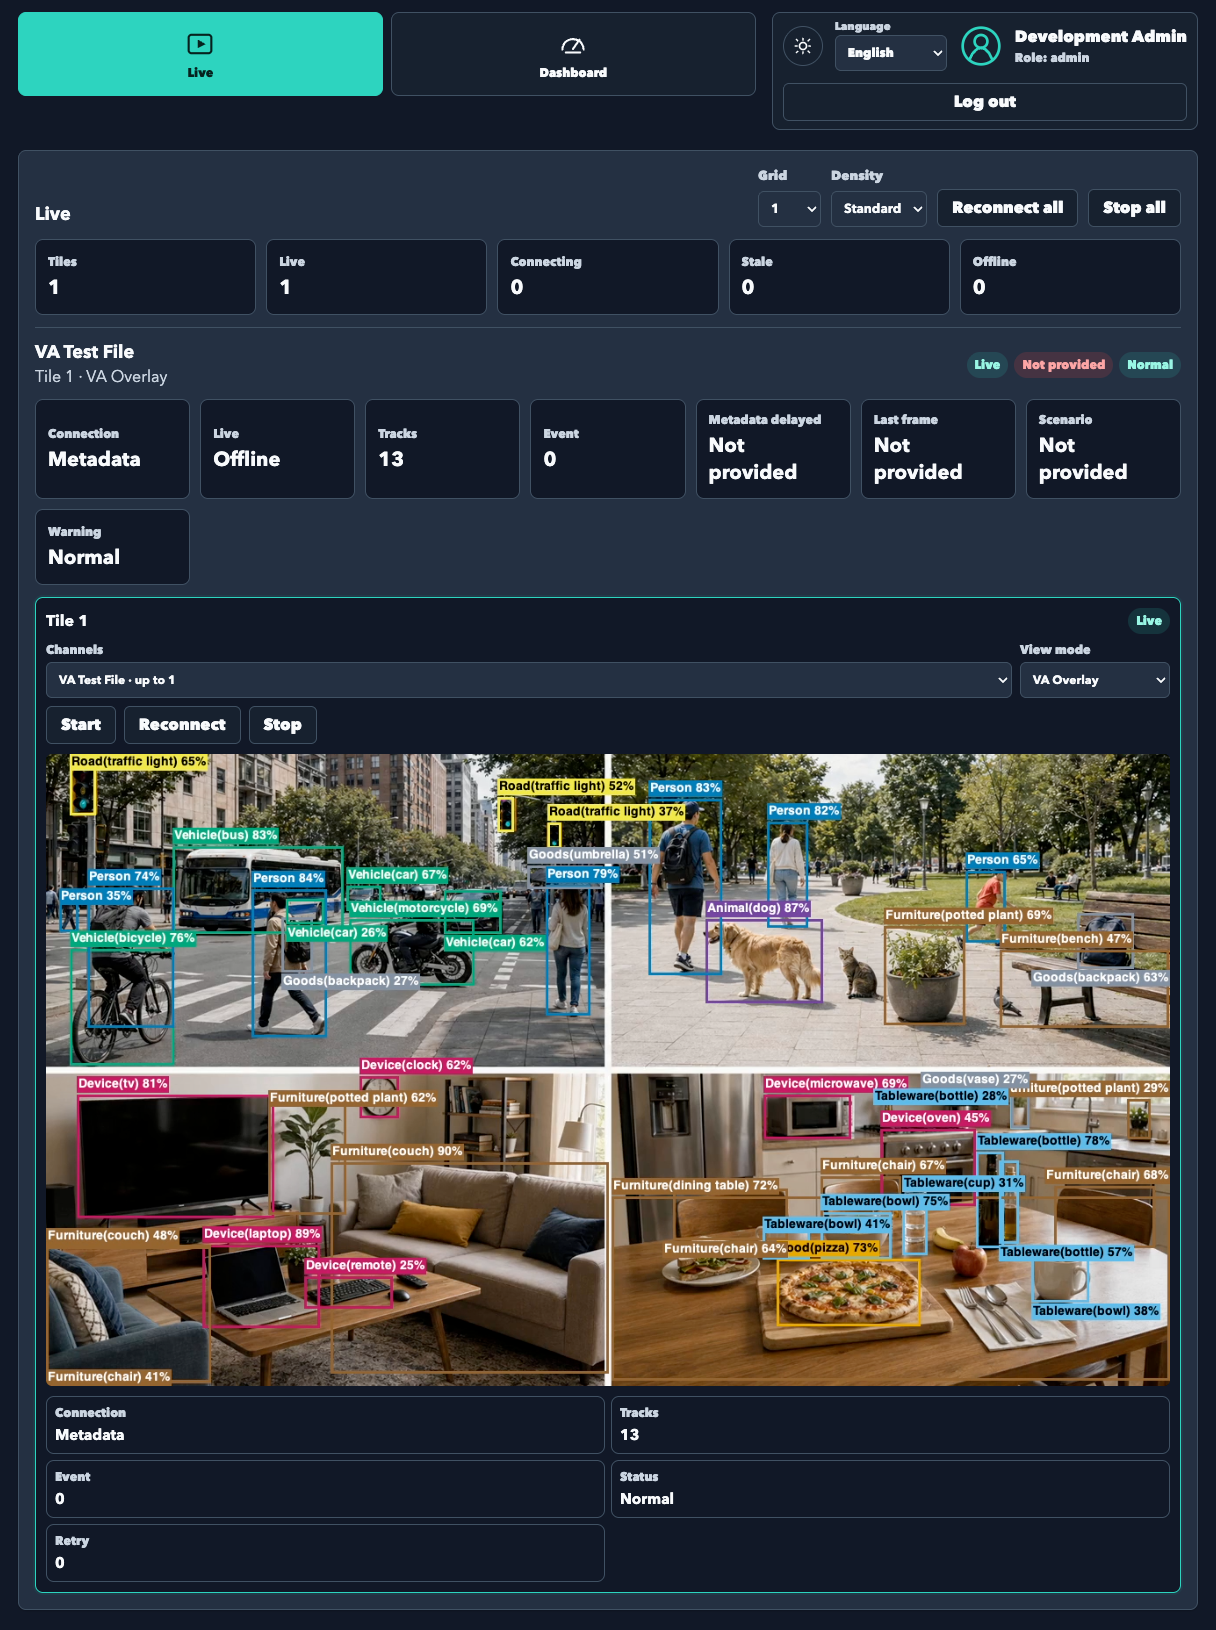
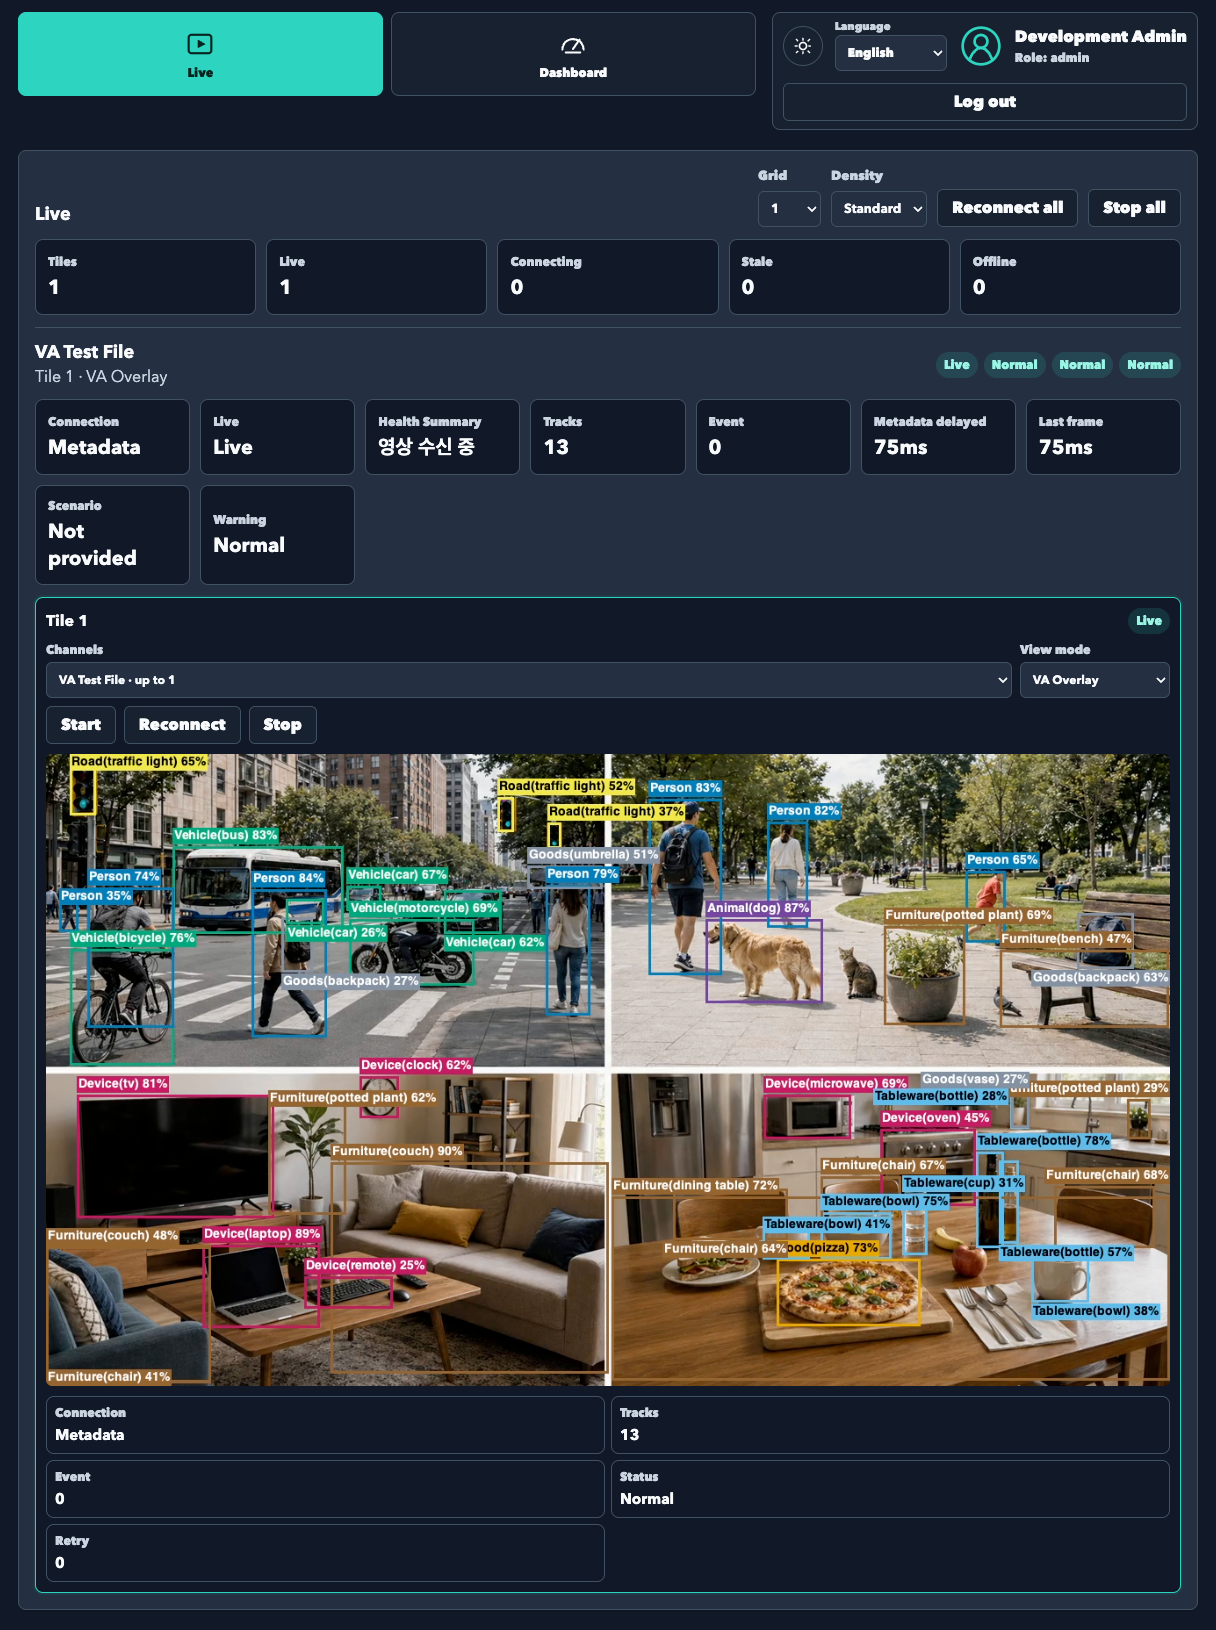
docs: refresh final review state

Changed region(s): [[0.0312, 0.2147, 0.9688, 0.3681]]

diff --git a/docs/en/README.md b/docs/en/README.md
@@ -37,7 +37,11 @@ sprawl; use the table below to jump to the detailed source-of-truth page.
 - v1.1.0 targets live operations: ONVIF-assisted live source onboarding, live source health, and live VA event quality.
 - It does not expand Media Server into long-term recording, VMS/NVR, playback/search, or ONVIF Profile G recording/replay scope.
 - EventRecord, snapshot, and clip hooks remain short event evidence or diagnostics helpers unless a later phase changes the product boundary.
-- The 2026-05-12 close-out completed prerequisite roadmap steps 1-6 and RC stabilization. 30m/120m longrun evidence is a conditional release gate for an actual RC cut, not a remaining v1.1.0 backlog item.
+- The 2026-05-12 close-out completed prerequisite roadmap steps 1-6.
+- The 2026-05-13 final local release gate completed 120m predev soak,
+  120m runtime-console longrun with a 30m cleanup-idle observation, and
+  P1 public/bundle/full-smoke review.
+- Release tag, main merge, GitHub Release, and push remain manual release actions.
 
 ## Current Priority Snapshot
 
@@ -47,17 +51,17 @@ sprawl; use the table below to jump to the detailed source-of-truth page.
 | Runtime distribution policy | Done | Source-first policy and bundle guardrails are in place |
 | Ops UI stability | Done | Channels/Rules/Users responsive table checks exist |
 | v1.1.0 prerequisite roadmap 1-6 | Done | Live-only boundary, ONVIF import, source health, VA quality, delivery contract, and multilingual alignment are closed |
-| v1.1.0 RC stabilization | Done | RC gate/release checklist readiness and longrun separation are closed without rerunning prerequisite roadmap 1-6 |
+| v1.1.0 RC stabilization | Done | Final local longrun/P1 release-gate evidence is closed without rerunning prerequisite roadmap 1-6 |
 | Audit trail operations | Follow-up phase | Server persistence exists; search/export can improve |
 | Short event evidence | Supporting | EventRecord/snapshot/clip cleanup exists, but it is not the main v1.1.0 product direction |
-| RC gate operations | Conditional gate | Longrun gate exists and should be run explicitly for an actual RC cut |
+| RC gate operations | Conditional gate | Repeat longrun only for a new release cut or high-risk media/VA fanout change |
 | Client dashboard field polish | Follow-up phase | Preset-driven priority and wording can improve |
 
 ## General Follow-Ups
 
 - Close or suppress existing Dependabot major-update PR noise after the policy is documented.
 - Add richer English docs only if the public audience grows beyond this consolidated index.
-- Connect RC artifacts to release notes when cutting an actual release candidate.
+- Attach the latest RC artifacts to release notes when cutting the actual tag or GitHub Release.
 - Keep signed-token and cleanup checks for evidence bundles scoped to short event evidence.
 - Add operator-facing next-action buttons to root-cause diagnostics in a later operator workflow phase.
 

diff --git a/docs/v1.1.0-roadmap.md b/docs/v1.1.0-roadmap.md
@@ -392,9 +392,12 @@ git diff --check -- README.md docs
 - 한국어/영어 UI와 문서의 주요 표현 정합성 확인
 - longrun은 live relay/metadata/event 중심으로 실행
 - 120분 soak는 media/VA fanout 고위험 변경이 있을 때만 조건부 gate로 실행
-- 2026-05-12 close-out 기준으로 RC gate/release checklist readiness는 완료.
-  선수 로드맵 1~6은 다시 진행하지 않으며, 실제 30분/120분 실측은
-  release candidate 판정 시 명시적으로 실행하는 운영 gate로 남깁니다.
+- 2026-05-13 최종 로컬 release gate 기준으로 120분 predev soak,
+  120분 runtime console longrun, 30분 cleanup idle 관찰, P1 public/bundle/full
+  smoke 재검토를 완료했습니다.
+- 선수 로드맵 1~6은 다시 진행하지 않습니다. 이후 같은 longrun은 release
+  candidate 재판정이나 고위험 media/VA fanout 변경에서만 반복합니다.
+- release tag, main merge, GitHub Release, push는 이 문서 기준으로 수행하지 않았습니다.
 
 검증 후보:
 
@@ -407,7 +410,7 @@ git diff --check -- README.md docs
 ## 5. Close-out Status
 
 2026-05-12 순차 close-out 기준으로 선수 로드맵은 아래 순서대로 완료했습니다.
-RC 안정화에서 이 선수 로드맵을 다시 진행하지 않습니다.
+2026-05-13에는 선수 로드맵을 다시 열지 않고 RC release gate만 최종 재검토했습니다.
 
 1. Live-only 제품 경계 확정
 2. [ONVIF live source onboarding](./onvif-live-import.md)
@@ -416,10 +419,15 @@ RC 안정화에서 이 선수 로드맵을 다시 진행하지 않습니다.
 5. [Live event delivery contract](./live-event-metadata-contracts.md)
 6. 다국어 UI/문서 정합성 및 영문 mirror 문서 병합
 
-남은 v1.1.0 후속 이슈는 없습니다.
-실제 release candidate cut에서 필요한 30분/120분 장시간 실측은
-`v1.1.0 RC 안정화` 구현 이슈가 아니라 조건부 release gate로 실행합니다.
-녹화와 playback 기능은 RC 잔여 범위에 들어가지 않습니다.
+남은 v1.1.0 구현 후속 이슈는 없습니다.
+최종 로컬 release gate에서는 `verify-predev --soak-minutes 120`이 `525/0/1`,
+`verify-va-runtime-console-longrun --duration-minutes 120 ... --idle-after-cleanup-minutes 30`이
+`12/0/0`으로 통과했습니다. runtime longrun의 idle 판정은 RSS `+0.58MiB`
+warning이었지만 cleanup 관련 runtime counter는 모두 `0`이었습니다.
+P1 재검토에서는 `verify-longrun-separation`, `verify-public-repo-readiness`,
+`verify-bundle-policy`, `./server.sh test --full --stop-after`를 통과했습니다.
+녹화와 playback 기능은 RC 잔여 범위에 들어가지 않으며, release tag/main
+merge/push는 별도 명시 요청 전까지 수행하지 않습니다.
 
 ## 6. Live-only Glossary
 

diff --git a/docs/history/verification-history.md b/docs/history/verification-history.md
@@ -2,6 +2,37 @@
 
 이 문서는 과거 상세 검증 이력을 보존합니다. 현재 실행해야 할 검증 기준은 [../stream-verification.md](../stream-verification.md)를 봅니다.
 
+## 2026-05-13 - v1.1.0 final local release gate
+
+통과:
+
+- `./server.sh verify-predev --soak-minutes 120`: `525/0/1`
+- `./server.sh verify-va-runtime-console-longrun --duration-minutes 120 ... --idle-after-cleanup-minutes 30`: `12/0/0`
+- `./server.sh rc-release-checklist ...`: checklist artifact 생성 통과
+- `./server.sh verify-longrun-separation`: `4/0`
+- `./server.sh verify-public-repo-readiness --report ...`: `6/0`
+- `./server.sh verify-bundle-policy --output ... --json-output ...`: 통과
+- `./server.sh test --full --stop-after`: `30/0/6`, 542초
+
+확인:
+
+- 2026-05-12에 닫은 v1.1.0 선수 로드맵 1~6은 재수행하지 않았습니다.
+- redaction RTSP ffmpeg hang은 live decode harness timeout 보강 후 targeted
+  redaction live 2회 재검증을 통과했습니다.
+- public repository policy는 병합된 `docs/en/README.md` 기준으로 정렬했고,
+  삭제한 영문 mirror 문서를 다시 만들지 않았습니다.
+- runtime longrun idle 판정은 RSS `316.05MiB -> 316.62MiB`로 `+0.58MiB`
+  warning이었지만 cleanup 관련 runtime counter는 모두 `0`이었습니다.
+- v1.1.0 구현 후속 이슈는 남기지 않았고, release tag/main merge/GitHub
+  Release/push는 수행하지 않았습니다.
+
+미실행:
+
+- release tag 생성
+- main merge
+- GitHub Release 생성
+- push
+
 ## 2026-05-12 - Live Event Delivery Contract RC smoke
 
 통과:

diff --git a/docs/assets/ui/README.md b/docs/assets/ui/README.md
@@ -2,7 +2,7 @@
 
 이 디렉터리는 README와 `docs/ui-guide.md`에서 사용할 제품 UI 스크린샷을 역할 기준 파일명으로 보관합니다.
 
-현재 대표 제품 이미지는 2026-05-09 기준으로 다시 캡처했습니다.
+현재 대표 제품 이미지는 2026-05-13 기준으로 다시 캡처했습니다.
 재캡처는 `scripts/internal/capture_docs_ui_assets.mjs` 기준으로 관리합니다.
 기준 검증은 `./server.sh verify-docs-ui-assets`로 수행합니다.
 
